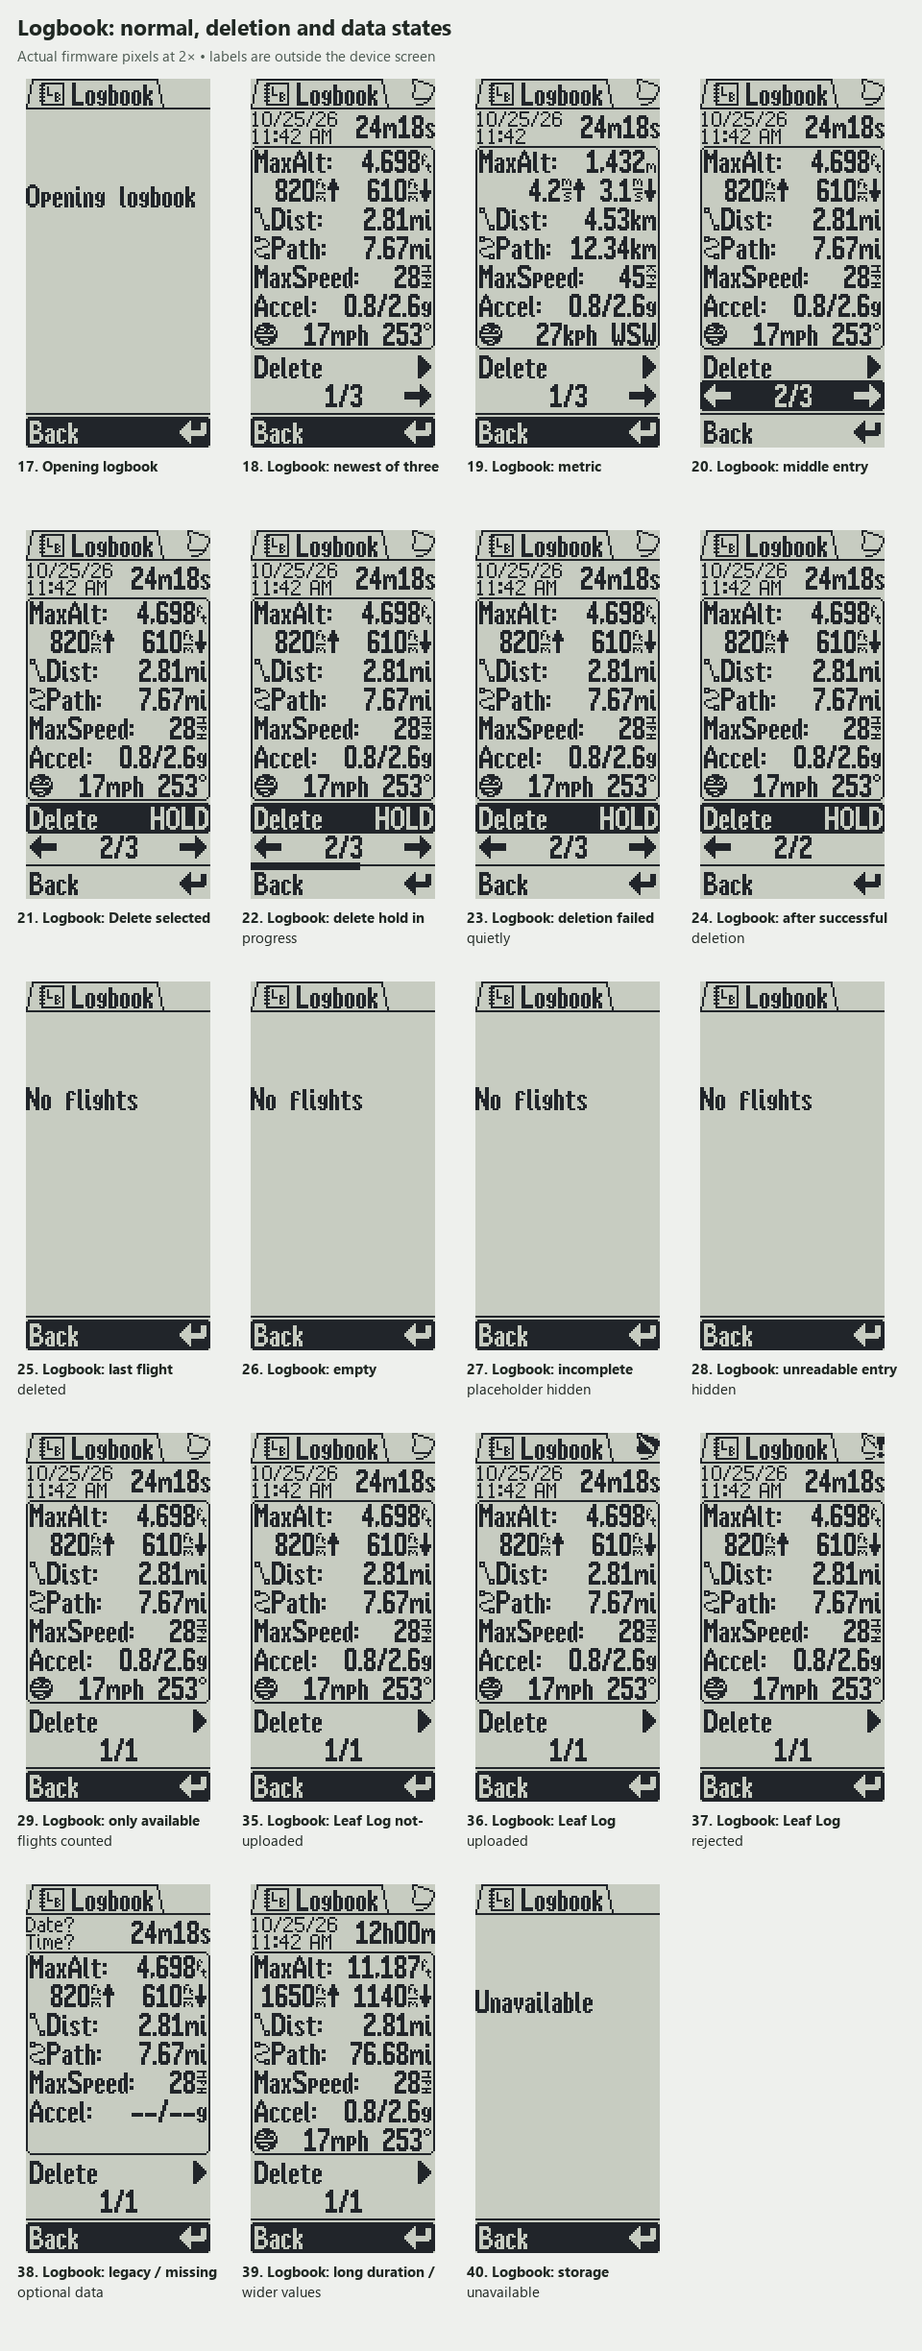
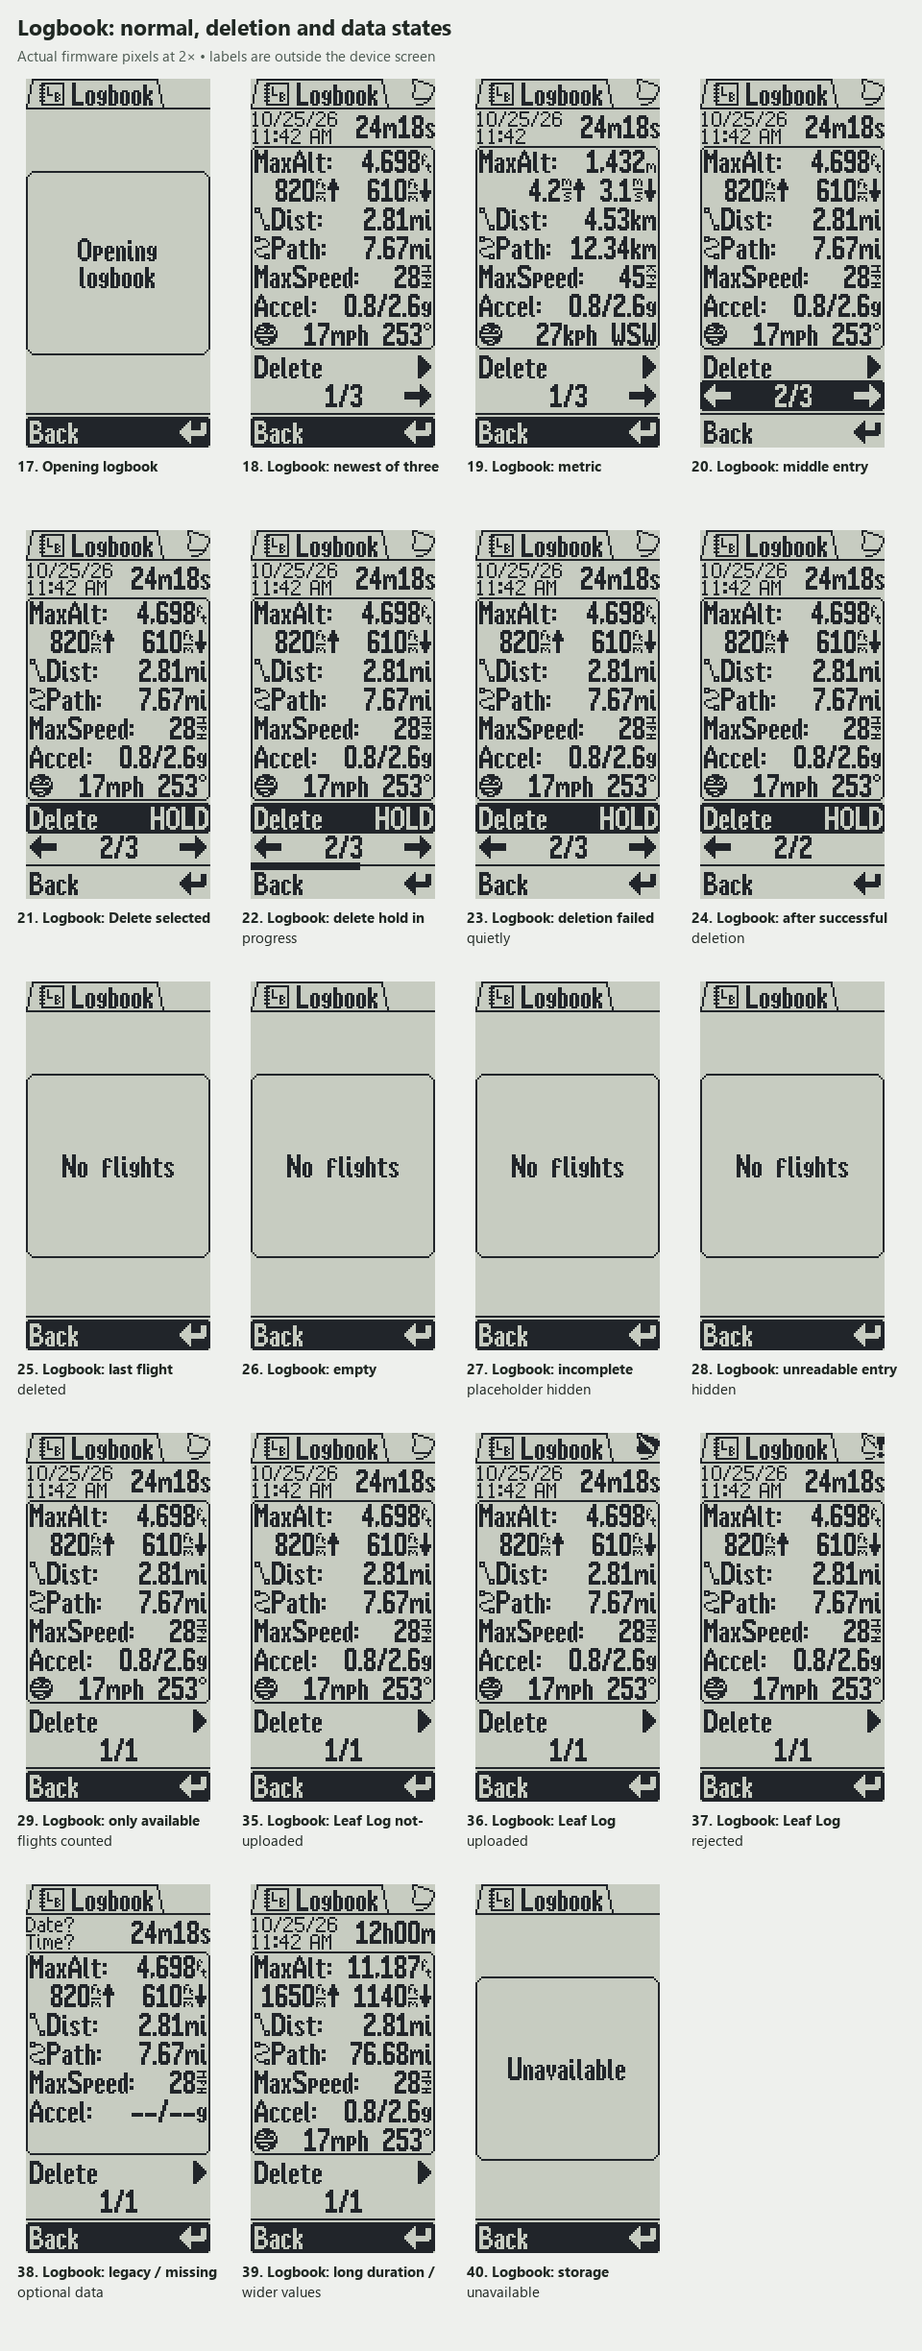
Polish standalone SD dialogs with centered rounded frames

diff --git a/docs/ui-reviews/sd-card-dialogs/index.html b/docs/ui-reviews/sd-card-dialogs/index.html
@@ -9,9 +9,10 @@ input{font:inherit;padding:9px;border:1px solid #85978b;border-radius:5px;min-wi
 h3{font-size:16px;align-self:stretch;min-height:48px;margin:0 0 12px}img{box-sizing:content-box;display:block;image-rendering:pixelated;border:1px solid #889185;max-width:100%;height:auto}
 article p{align-self:stretch;margin:12px 0 0;font-size:14px}.duplicate{color:#576c5f;min-height:20px}details{align-self:stretch;margin-top:10px;font-size:12px;overflow-wrap:anywhere}.notes{padding:8px 22px;background:white;border:1px solid #d0d7d0;border-radius:6px}.notes li{margin:8px 0}
 pre{overflow:auto;max-width:100%}body.native img{width:96px;height:192px}body.native article{min-height:420px}[hidden]{display:none!important}
-</style><header><h1>Leaf SD screens</h1><p>90 native screenshots · 70 distinct frames · firmware source <strong>c88afbb4</strong></p>
-<p>Current visuals for review. The firmware’s styling has not been changed.</p></header><main>
-<nav><a href="#01-save-and-summary">Saving and flight summaries</a> · <a href="#02-logbook">Logbook: normal, deletion and data states</a> · <a href="#03-repair-and-context">Repair outcomes and menu context</a> · <a href="#04-charging-states">Charging, upload and USB states</a> · <a href="#05-charging-animation">Charging and upload animation frames</a></nav><details class="notes"><summary>Scope, provenance and screens that intentionally do not exist</summary><ul><li>Actual 96×192 u8g2 firmware frames; no mockups or visual changes. Synthetic data only; user SD evidence was not used.</li><li>c88afbb4 is the firmware source commit. Capture tooling and this gallery are a separate follow-up commit.</li><li>Saving and shutdown-failure messages were captured inside the real stop path, before staging open and during the failure-notice delay respectively.</li><li>Charging uses the existing charging_dialogs regression harness and deterministic transport outcomes; it checks the reference animation artwork.</li><li>The charging footer retains the simulator&#x27;s 0.0.0+build.script.error placeholder. It is not an SD error or a release build version; no footer pixels were edited.</li><li>Removed Not fully deleted messages are absent in the current firmware. Quiet partial-delete captures demonstrate the replacement behavior.</li><li>No repair-success, repair-deferred, or cleanup-failure dialogs exist. Repair outcomes appear through the available logbook entries and counts.</li><li>Manual and automatic stops share the same summary renderer. Power-off and low-battery failure notices use the same message.</li><li>Web-app Checking logs... is HTML, not a firmware LCD screen; it is outside this native screenshot set. Unrelated GPX/profile/formatting tools are also outside this set.</li></ul></details>
+</style><header><h1>Leaf SD screens</h1><p>90 native screenshots · 70 distinct frames · firmware source <strong>c7c9e6f1 + rounded SD dialogs (working tree)</strong></p>
+<p>Rounded SD message panels, centered text, and IGC wording. The inline summary warning retains its existing layout.</p></header><main>
+<p><a href="00-rounded-messages.png">Standalone message overview</a></p>
+<nav><a href="#01-save-and-summary">Saving and flight summaries</a> · <a href="#02-logbook">Logbook: normal, deletion and data states</a> · <a href="#03-repair-and-context">Repair outcomes and menu context</a> · <a href="#04-charging-states">Charging, upload and USB states</a> · <a href="#05-charging-animation">Charging and upload animation frames</a></nav><details class="notes"><summary>Scope, provenance and screens that intentionally do not exist</summary><ul><li>Actual 96×192 u8g2 firmware frames; no mockups. Synthetic data only; user SD evidence was not used.</li><li>Firmware source: c7c9e6f1 + rounded SD dialogs (working tree). Standalone SD messages use centered 96×96 rounded frames; the inline summary save-failure warning is unchanged.</li><li>Saving and shutdown-failure messages were captured inside the real stop path, before staging open and during the failure-notice delay respectively.</li><li>Charging uses the existing charging_dialogs regression harness and deterministic transport outcomes; it checks the reference animation artwork.</li><li>The charging footer retains the simulator&#x27;s 0.0.0+build.script.error placeholder. It is not an SD error or a release build version; no footer pixels were edited.</li><li>Removed Not fully deleted messages are absent in the current firmware. Quiet partial-delete captures demonstrate the replacement behavior.</li><li>No repair-success, repair-deferred, or cleanup-failure dialogs exist. Repair outcomes appear through the available logbook entries and counts.</li><li>Manual and automatic stops share the same summary renderer. Power-off and low-battery failure notices use the same message.</li><li>Web-app Checking logs... is HTML, not a firmware LCD screen; it is outside this native screenshot set. Unrelated GPX/profile/formatting tools are also outside this set.</li></ul></details>
 <div class="toolbar"><input id="filter" type="search" placeholder="Filter titles and SD states" aria-label="Filter screenshots"><label><input id="native" type="checkbox" style="min-width:0"> Native size</label><span id="count"></span></div>
 <section id="01-save-and-summary"><h2>Saving and flight summaries <a href="01-save-and-summary.png">contact sheet</a></h2><div class="grid"><article data-search="Saving flight... Actual flightTimer_stop frame immediately before JSON staging is opened. saving/normal">
 <h3>#01 Saving flight...</h3>
@@ -61,21 +62,21 @@ pre{overflow:auto;max-width:100%}body.native img{width:96px;height:192px}body.na
 <h3>#12 Summary: all optional metrics present</h3>
 <a href="screenshots/summary/populated-metrics.png" target="_blank"><img src="screenshots/summary/populated-metrics.png" width="288" height="576" loading="lazy" alt="Summary: all optional metrics present"></a>
 <p>Synthetic RAM snapshot with valid g-load and wind. Earlier actual-stop fixtures have no injected IMU samples.</p><p class="duplicate"></p>
-<details><summary>Capture details</summary><code>summary/populated-metrics</code><p>src/vario/ui/display/pages/dialogs/page_flight_summary.cpp</p></details></article><article data-search="Save failure: No track file Actual shutdown notice with no IGC track; JSON save failed. No acknowledgement. saving/failed-shutdown">
-<h3>#13 Save failure: No track file</h3>
-<a href="screenshots/saving/failed-shutdown.png" target="_blank"><img src="screenshots/saving/failed-shutdown.png" width="288" height="576" loading="lazy" alt="Save failure: No track file"></a>
+<details><summary>Capture details</summary><code>summary/populated-metrics</code><p>src/vario/ui/display/pages/dialogs/page_flight_summary.cpp</p></details></article><article data-search="Save failure: No IGC file Actual shutdown notice with no IGC track; JSON save failed. No acknowledgement. saving/failed-shutdown">
+<h3>#13 Save failure: No IGC file</h3>
+<a href="screenshots/saving/failed-shutdown.png" target="_blank"><img src="screenshots/saving/failed-shutdown.png" width="288" height="576" loading="lazy" alt="Save failure: No IGC file"></a>
 <p>Actual shutdown notice with no IGC track; JSON save failed. No acknowledgement.</p><p class="duplicate"></p>
-<details><summary>Capture details</summary><code>saving/failed-shutdown</code><p>src/vario/logging/log.cpp:flightTimer_stop</p></details></article><article data-search="Save failure: No track file Actual shutdown notice with no IGC track; JSON save failed. No acknowledgement. saving/failed-low-battery">
-<h3>#14 Save failure: No track file</h3>
-<a href="screenshots/saving/failed-low-battery.png" target="_blank"><img src="screenshots/saving/failed-low-battery.png" width="288" height="576" loading="lazy" alt="Save failure: No track file"></a>
+<details><summary>Capture details</summary><code>saving/failed-shutdown</code><p>src/vario/logging/log.cpp:flightTimer_stop</p></details></article><article data-search="Save failure: No IGC file Actual shutdown notice with no IGC track; JSON save failed. No acknowledgement. saving/failed-low-battery">
+<h3>#14 Save failure: No IGC file</h3>
+<a href="screenshots/saving/failed-low-battery.png" target="_blank"><img src="screenshots/saving/failed-low-battery.png" width="288" height="576" loading="lazy" alt="Save failure: No IGC file"></a>
 <p>Actual shutdown notice with no IGC track; JSON save failed. No acknowledgement.</p><p class="duplicate">Same pixels as #13. </p>
-<details><summary>Capture details</summary><code>saving/failed-low-battery</code><p>src/vario/logging/log.cpp:flightTimer_stop</p></details></article><article data-search="Save failure: Track unverified Actual shutdown notice with an IGC present; JSON save failed. The track is explicitly unverified. saving/failed-shutdown-with-track">
-<h3>#15 Save failure: Track unverified</h3>
-<a href="screenshots/saving/failed-shutdown-with-track.png" target="_blank"><img src="screenshots/saving/failed-shutdown-with-track.png" width="288" height="576" loading="lazy" alt="Save failure: Track unverified"></a>
+<details><summary>Capture details</summary><code>saving/failed-low-battery</code><p>src/vario/logging/log.cpp:flightTimer_stop</p></details></article><article data-search="Save failure: IGC unverified Actual shutdown notice with an IGC present; JSON save failed. The track is explicitly unverified. saving/failed-shutdown-with-track">
+<h3>#15 Save failure: IGC unverified</h3>
+<a href="screenshots/saving/failed-shutdown-with-track.png" target="_blank"><img src="screenshots/saving/failed-shutdown-with-track.png" width="288" height="576" loading="lazy" alt="Save failure: IGC unverified"></a>
 <p>Actual shutdown notice with an IGC present; JSON save failed. The track is explicitly unverified.</p><p class="duplicate"></p>
-<details><summary>Capture details</summary><code>saving/failed-shutdown-with-track</code><p>src/vario/logging/log.cpp:flightTimer_stop</p></details></article><article data-search="Save failure: Track unverified Actual shutdown notice with an IGC present; JSON save failed. The track is explicitly unverified. saving/failed-low-battery-with-track">
-<h3>#16 Save failure: Track unverified</h3>
-<a href="screenshots/saving/failed-low-battery-with-track.png" target="_blank"><img src="screenshots/saving/failed-low-battery-with-track.png" width="288" height="576" loading="lazy" alt="Save failure: Track unverified"></a>
+<details><summary>Capture details</summary><code>saving/failed-shutdown-with-track</code><p>src/vario/logging/log.cpp:flightTimer_stop</p></details></article><article data-search="Save failure: IGC unverified Actual shutdown notice with an IGC present; JSON save failed. The track is explicitly unverified. saving/failed-low-battery-with-track">
+<h3>#16 Save failure: IGC unverified</h3>
+<a href="screenshots/saving/failed-low-battery-with-track.png" target="_blank"><img src="screenshots/saving/failed-low-battery-with-track.png" width="288" height="576" loading="lazy" alt="Save failure: IGC unverified"></a>
 <p>Actual shutdown notice with an IGC present; JSON save failed. The track is explicitly unverified.</p><p class="duplicate">Same pixels as #15. </p>
 <details><summary>Capture details</summary><code>saving/failed-low-battery-with-track</code><p>src/vario/logging/log.cpp:flightTimer_stop</p></details></article></div></section>
 <section id="02-logbook"><h2>Logbook: normal, deletion and data states <a href="02-logbook.png">contact sheet</a></h2><div class="grid"><article data-search="Opening logbook Nominal opening while the quiet repair scan is pending. logbook/opening">

diff --git a/sim/scripts/build_sd_dialog_gallery.py b/sim/scripts/build_sd_dialog_gallery.py
@@ -120,8 +120,8 @@ def main():
     manifest["capture_count"] = len(entries)
     manifest["unique_frames"] = len(hashes)
     manifest["notes"] = [
-        "Actual 96×192 u8g2 firmware frames; no mockups or visual changes. Synthetic data only; user SD evidence was not used.",
-        f"{manifest['source_commit']} is the firmware source commit. Capture tooling and this gallery are a separate follow-up commit.",
+        "Actual 96×192 u8g2 firmware frames; no mockups. Synthetic data only; user SD evidence was not used.",
+        f"Firmware source: {manifest['source_commit']}. Standalone SD messages use centered 96×96 rounded frames; the inline summary save-failure warning is unchanged.",
         "Saving and shutdown-failure messages were captured inside the real stop path, before staging open and during the failure-notice delay respectively.",
         "Charging uses the existing charging_dialogs regression harness and deterministic transport outcomes; it checks the reference animation artwork.",
         "The charging footer retains the simulator's 0.0.0+build.script.error placeholder. It is not an SD error or a release build version; no footer pixels were edited.",
@@ -146,6 +146,12 @@ def main():
     ]
     for key, title, items in groups:
         contact_sheet(directory, key + ".png", title, items)
+    overview_ids = (
+        "saving/normal", "logbook/opening", "logbook/empty", "logbook/card-unavailable",
+        "saving/failed-shutdown", "saving/failed-shutdown-with-track",
+    )
+    contact_sheet(directory, "00-rounded-messages.png", "Standalone SD messages",
+                  [next(entry for entry in entries if entry["id"] == key) for key in overview_ids])
 
     esc = html.escape
     cards = []
@@ -173,7 +179,8 @@ h3{font-size:16px;align-self:stretch;min-height:48px;margin:0 0 12px}img{box-siz
 article p{align-self:stretch;margin:12px 0 0;font-size:14px}.duplicate{color:#576c5f;min-height:20px}details{align-self:stretch;margin-top:10px;font-size:12px;overflow-wrap:anywhere}.notes{padding:8px 22px;background:white;border:1px solid #d0d7d0;border-radius:6px}.notes li{margin:8px 0}
 pre{overflow:auto;max-width:100%}body.native img{width:96px;height:192px}body.native article{min-height:420px}[hidden]{display:none!important}
 </style><header><h1>Leaf SD screens</h1><p>CAPTURE_COUNT native screenshots · UNIQUE_COUNT distinct frames · firmware source <strong>c88afbb4</strong></p>
-<p>Current visuals for review. The firmware’s styling has not been changed.</p></header><main>
+<p>Rounded SD message panels, centered text, and IGC wording. The inline summary warning retains its existing layout.</p></header><main>
+<p><a href="00-rounded-messages.png">Standalone message overview</a></p>
 <nav>NAVIGATION</nav><details class="notes"><summary>Scope, provenance and screens that intentionally do not exist</summary><ul>NOTES</ul></details>
 <div class="toolbar"><input id="filter" type="search" placeholder="Filter titles and SD states" aria-label="Filter screenshots"><label><input id="native" type="checkbox" style="min-width:0"> Native size</label><span id="count"></span></div>
 CARDS
@@ -188,7 +195,7 @@ LEAF_CAPTURE_COMMIT=&lt;firmware-commit&gt; ./sim/build/sd_dialogs_capture docs/
     for key, value in {"CAPTURE_COUNT": str(len(entries)), "UNIQUE_COUNT": str(len(hashes)), "NAVIGATION": links, "NOTES": notes, "CARDS": "\n".join(cards)}.items():
         page = page.replace(key, value)
     (directory / "index.html").write_text(page, encoding="utf-8")
-    print(f"Packaged {len(entries)} native captures ({len(hashes)} unique frames), five contact sheets and index.html.")
+    print(f"Packaged {len(entries)} native captures ({len(hashes)} unique frames), six contact sheets and index.html.")
 
 
 if __name__ == "__main__":

diff --git a/src/vario/logging/log.cpp b/src/vario/logging/log.cpp
@@ -19,6 +19,7 @@
 #include "ui/audio/speaker.h"
 #include "ui/display/display.h"
 #include "ui/display/fonts.h"
+#include "ui/display/message_box.h"
 #include "ui/display/pages/dialogs/page_alert_timerAutoStop.h"
 #include "ui/display/pages/dialogs/page_flight_summary.h"
 #include "ui/display/pages/fanet/page_fanet_stats.h"
@@ -415,21 +416,14 @@ void flightTimer_stop(bool showSummary, FlightEndCause cause) {
 
   u8g2.firstPage();
   do {
-    u8g2.setFont(leaf_6x12);
-    u8g2.setCursor(0, 85);
-    u8g2.print("Saving flight...");
+    message_box::draw("Saving", "flight...");
   } while (u8g2.nextPage());
   const bool summarySaved = logbookEntry.finalize(logbook, trackFormat, trackPath);
   if (!summarySaved && !showSummary) {
     u8g2.firstPage();
     do {
-      u8g2.setFont(leaf_6x12);
-      u8g2.setCursor(0, 75);
-      u8g2.print("Logbook save");
-      u8g2.setCursor(0, 90);
-      u8g2.print("failed");
-      u8g2.setCursor(0, 115);
-      u8g2.print(trackPath.isEmpty() ? "No track file" : "Track unverified");
+      message_box::draw("Logbook save", "failed",
+                        trackPath.isEmpty() ? "No IGC file" : "IGC unverified");
     } while (u8g2.nextPage());
     delay(1000);  // Visible outcome before shutdown clears the display; no acknowledgement.
   }

diff --git a/src/vario/ui/display/message_box.cpp b/src/vario/ui/display/message_box.cpp
@@ -1,0 +1,35 @@
+#include "ui/display/message_box.h"
+
+#include "ui/display/display.h"
+#include "ui/display/fonts.h"
+
+namespace message_box {
+  void draw(const char* first, const char* second, const char* detail) {
+    constexpr int WIDTH = 96;
+    constexpr int HEIGHT = 96;
+    constexpr int LINE_HEIGHT = 14;
+    constexpr int DETAIL_GAP = 8;
+    const int x = (u8g2.getDisplayWidth() - WIDTH) / 2;
+    const int y = (u8g2.getDisplayHeight() - HEIGHT) / 2;
+
+    u8g2.setDrawColor(0);
+    u8g2.drawRBox(x, y, WIDTH, HEIGHT, 5);
+    u8g2.setDrawColor(1);
+    u8g2.drawRFrame(x, y, WIDTH, HEIGHT, 5);
+    u8g2.setFont(leaf_6x12);
+
+    const char* lines[] = {first, second, detail};
+    int count = 0;
+    for (const char* line : lines)
+      if (line && *line) ++count;
+    const int height = u8g2.getAscent() - u8g2.getDescent() + (count - 1) * LINE_HEIGHT +
+                       (detail && *detail ? DETAIL_GAP : 0);
+    int baseline = y + (HEIGHT - height) / 2 + u8g2.getAscent();
+    for (unsigned i = 0; i < 3; ++i) {
+      if (!lines[i] || !*lines[i]) continue;
+      if (i == 2) baseline += DETAIL_GAP;
+      u8g2.drawStr(x + (WIDTH - u8g2.getStrWidth(lines[i])) / 2, baseline, lines[i]);
+      baseline += LINE_HEIGHT;
+    }
+  }
+}  // namespace message_box

diff --git a/src/vario/ui/display/pages/menu/page_logbook.cpp b/src/vario/ui/display/pages/menu/page_logbook.cpp
@@ -9,6 +9,7 @@
 #include "ui/display/display_fields.h"
 #include "ui/display/fonts.h"
 #include "ui/display/logbook_card.h"
+#include "ui/display/message_box.h"
 #include "ui/display/pages.h"
 #include "ui/settings/settings.h"
 
@@ -130,9 +131,7 @@ void PageLogbook::draw() {
   do {
     menu_ui::drawTitle("Logbook", menu_ui::GLYPH_LOGGING);
     if (waitingForRepair) {
-      u8g2.setFont(leaf_6x12);
-      u8g2.setCursor(0, 67);
-      u8g2.print("Opening logbook");
+      message_box::draw("Opening", "logbook");
     } else if (summary.valid) {
       if (settings.labs_leafLog && summary.leafLogStatus != LeafLogFlightStatus::NotApplicable) {
         u8g2.setFont(leaf_8x14);
@@ -154,10 +153,8 @@ void PageLogbook::draw() {
 }
 
 void PageLogbook::drawEmpty() {
-  u8g2.setFont(leaf_6x12);
-  u8g2.setCursor(0, 67);
-  u8g2.print(unavailable || !sdcard.firmwareCanAccessFilesystem() || total ? "Unavailable"
-                                                                           : "No flights");
+  message_box::draw(unavailable || !sdcard.firmwareCanAccessFilesystem() || total ? "Unavailable"
+                                                                                  : "No flights");
   if (total) {
     drawDeleteRow(156);
     drawPageRow(171);

diff --git a/sim/tests/sd_dialogs.cpp b/sim/tests/sd_dialogs.cpp
@@ -74,7 +74,7 @@ namespace {
       // The first delay after three exhausted attempts is the firmware's 1 s failure notice.
       snapshot(
           shutdownName,
-          shutdownHasTrack ? "Save failure: Track unverified" : "Save failure: No track file",
+          shutdownHasTrack ? "Save failure: IGC unverified" : "Save failure: No IGC file",
           shutdownHasTrack
               ? "Actual shutdown notice with an IGC present; JSON save failed. The track is "
                 "explicitly unverified."

diff --git a/src/vario/ui/display/message_box.h b/src/vario/ui/display/message_box.h
@@ -1,0 +1,6 @@
+#pragma once
+
+namespace message_box {
+  // Draw inside the current u8g2 page pass. The 96x96 frame is centered on the LCD.
+  void draw(const char* first, const char* second = nullptr, const char* detail = nullptr);
+}  // namespace message_box

diff --git a/src/vario/logbook/README.md b/src/vario/logbook/README.md
@@ -68,6 +68,10 @@ unavailability is distinct from an empty logbook. Failed redundant-temp cleanup 
 rather than a false save failure. Successful repair removes redundant `.tmp`; the `.bak` remains
 intentional, and ambiguous or sole useful candidates may remain until another recovery opportunity.
 
+Standalone saving, opening, empty/unavailable and shutdown-failure messages use a centered 96×96
+rounded frame with centered text. Shutdown details say "No IGC file" or "IGC unverified". The
+inline "Logbook save failed" warning on the immediate flight summary keeps its existing layout.
+
 ## Storage tests
 
 In the normal GCC simulator container, run `make -C sim -j8 test-logbook-io`. It exercises the real
